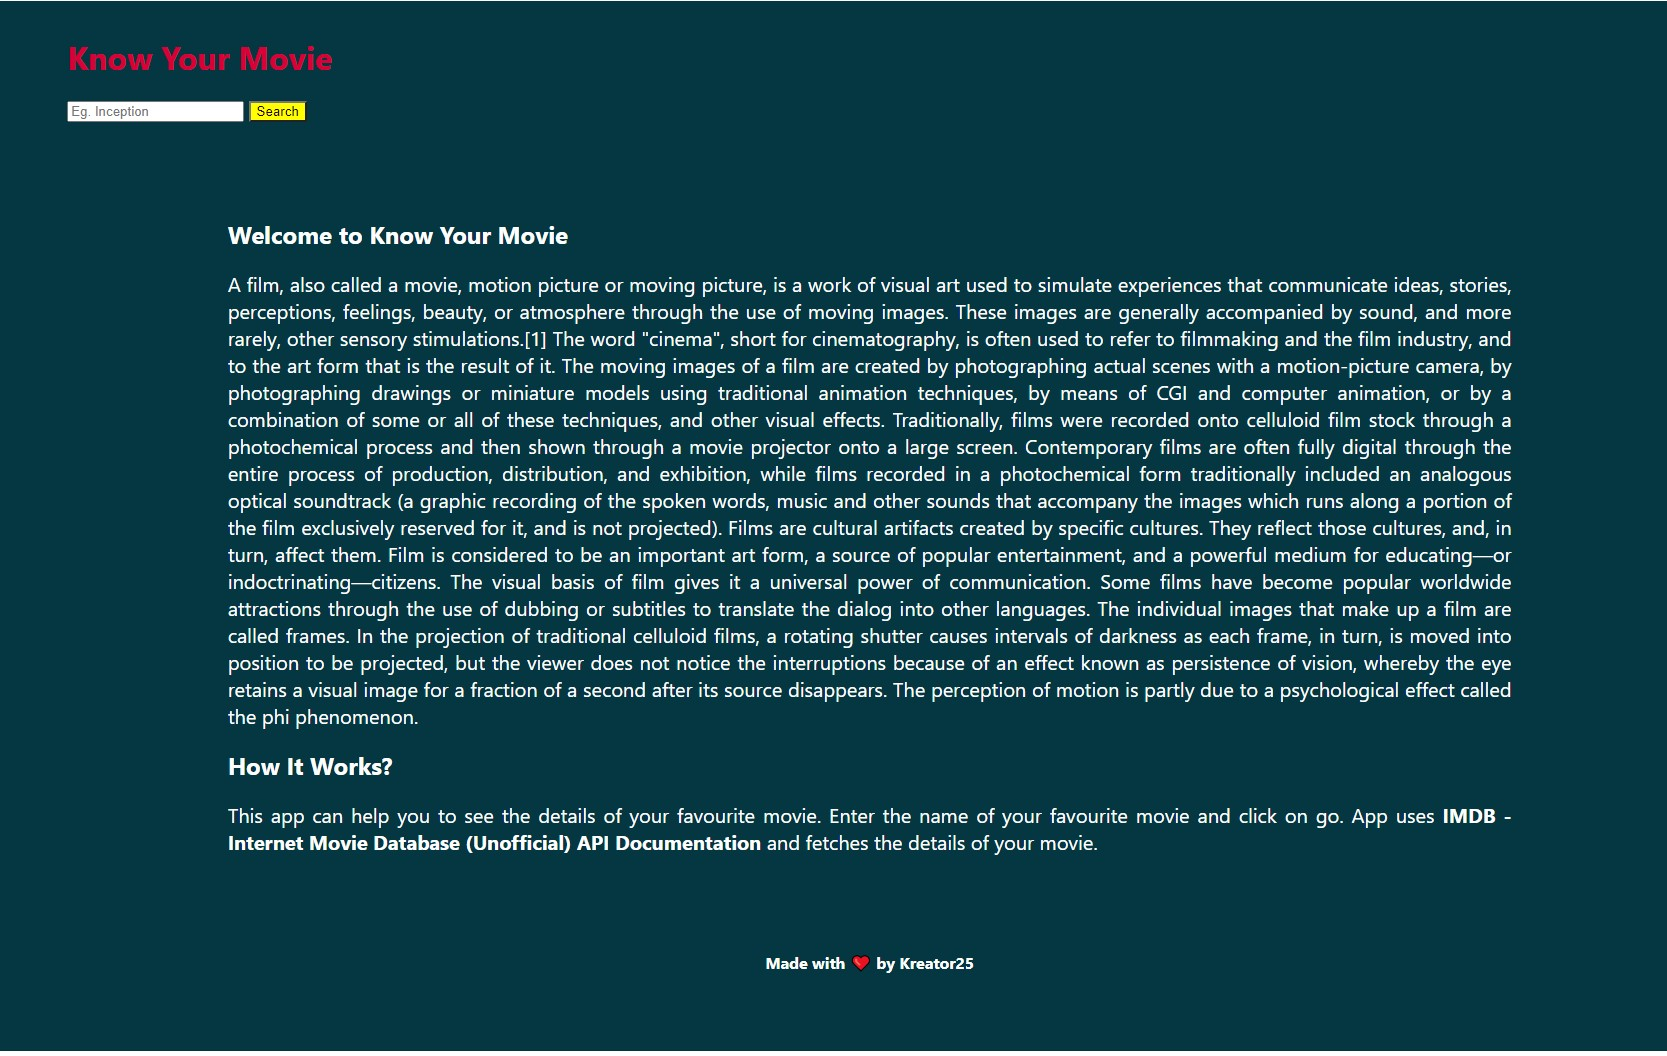
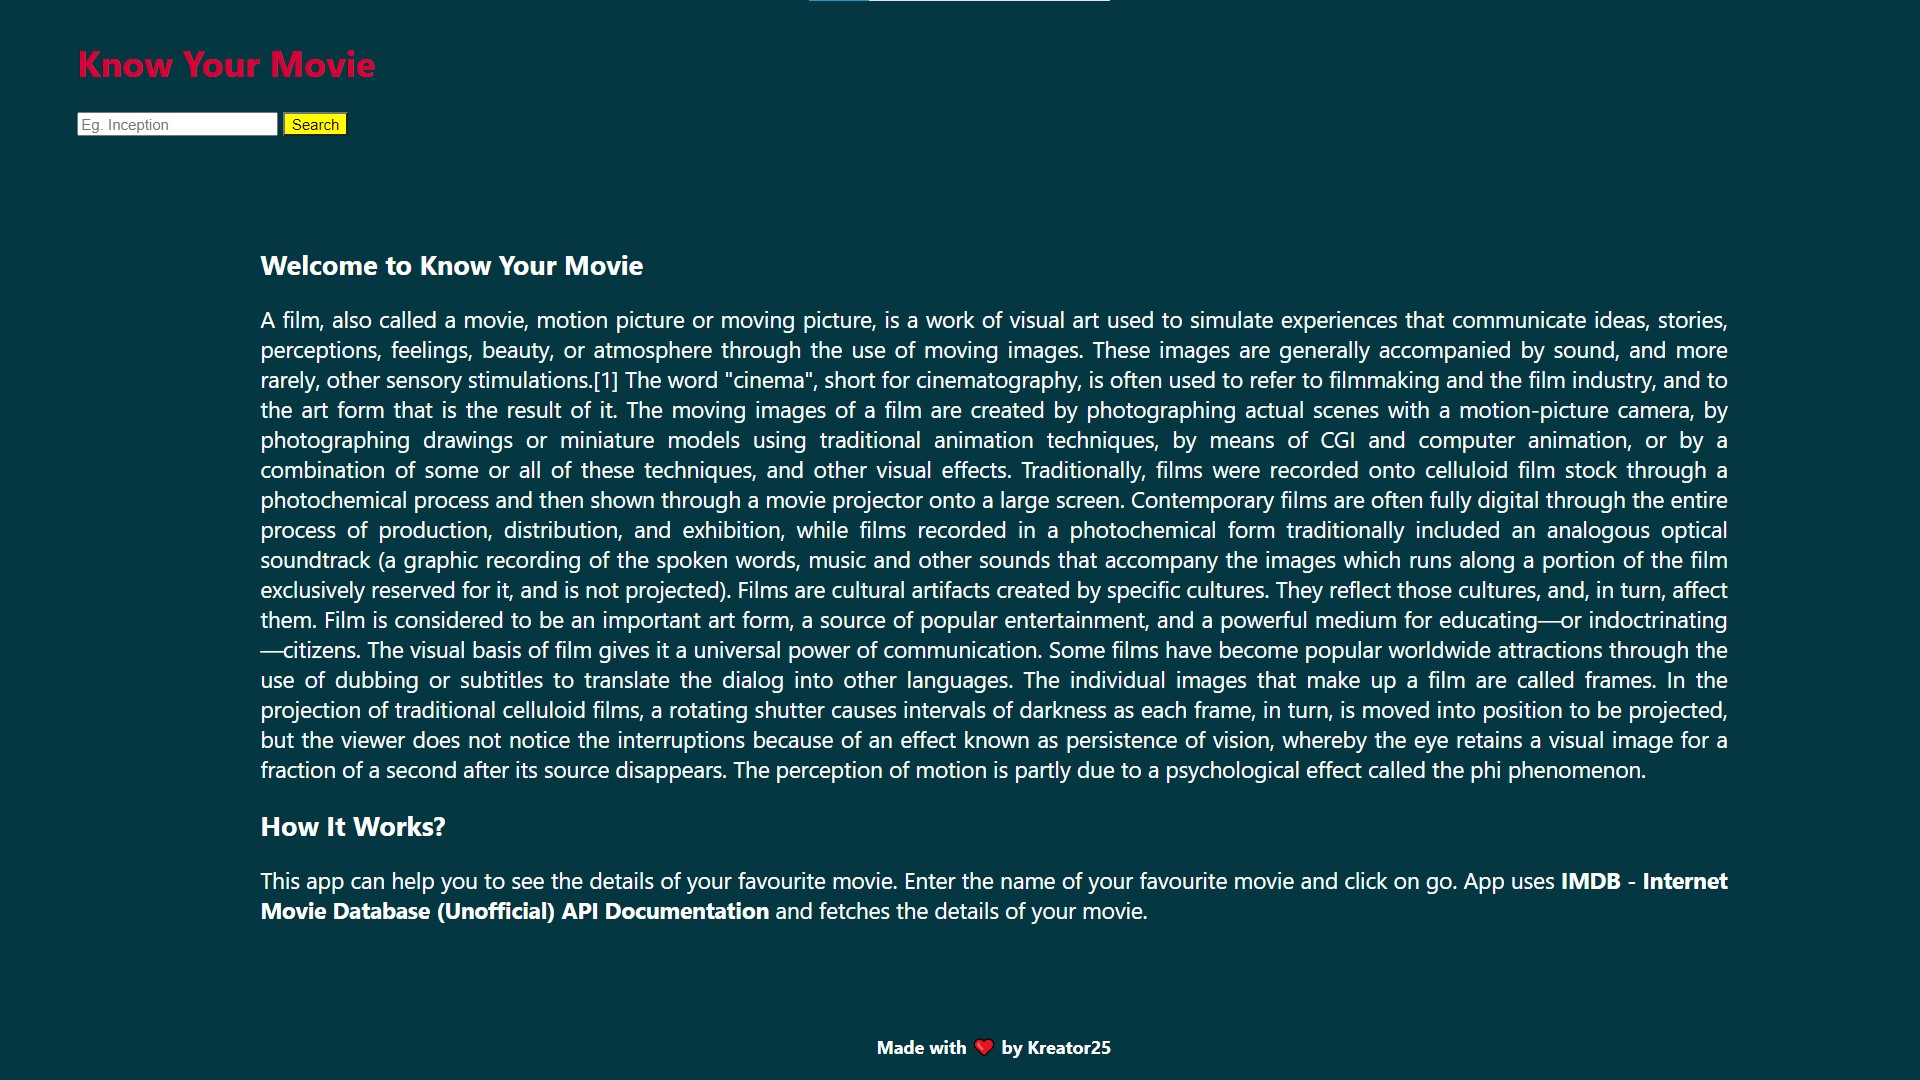
Add new screenshots and change img dimensions

Changed region(s): [[0.1248, 0.2188, 0.9046, 0.875], [0.0, 0.9062, 1.0, 1.0], [0.0312, 0.0312, 0.2184, 0.125]]

diff --git a/README.md b/README.md
@@ -5,9 +5,9 @@ The details like duration, rating, plot, and cast are displayed.
 
 ## Screenshots
 
-<img src="images/img1.jpg" height = "200" alt = "HomePage Image"/>
+<img src="images/img1.jpg" height = "400" alt = "HomePage Image"/>
 
-<img src="images/img2.jpg" height = "200" alt="Search Result"/>
+<img src="images/img2.jpg" height = "400" alt="Search Result"/>
 
 ## Run Locally
 
